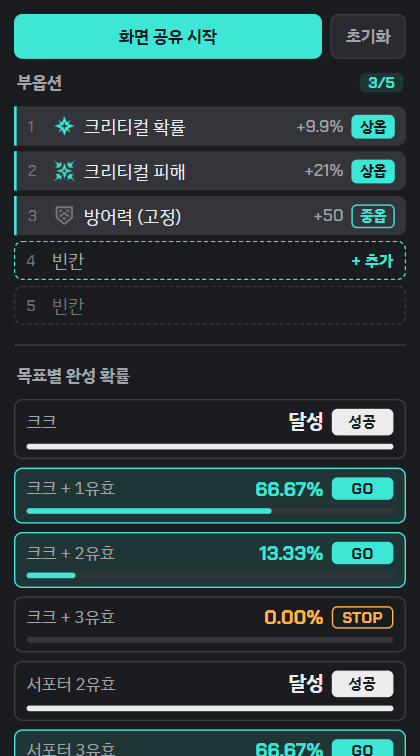
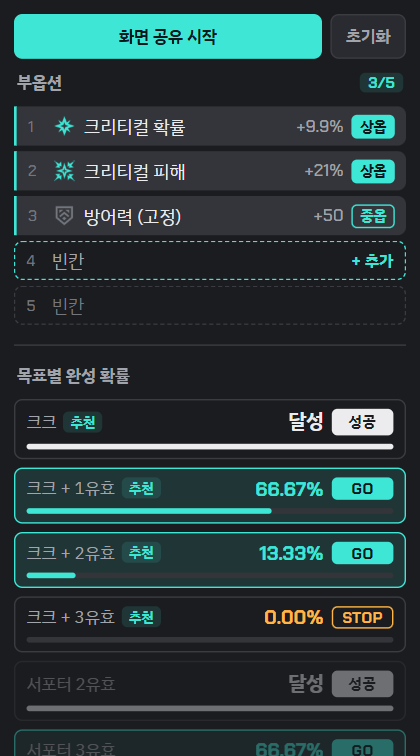
오버레이에도 공명자에 맞는 목표 강조
- 딜러는 크크 목표, 서포터는 서포터 목표에 "추천", 나머지는 흐리게 (본 화면과 같은 기준)
- 공명자 "선택 안 함"이나 새로고침 때도 오버레이가 바로 갱신되게
- README 오버레이 스크린샷 교체

diff --git a/overlay.js b/overlay.js
@@ -59,7 +59,8 @@ const $ = (id) => pipWin.document.getElementById(id);
  * @param model {
  *   sharing, openedCount,
  *   slots: [{ key, val, name, icon(상대 경로), valText, tierLabel, tierClass, valid } | null] (5칸, null = 빈칸),
- *   goals: [{ title, status, probText, prob }]
+ *   goals: [{ id, title, status, probText, prob }],
+ *   focus: 'crit'(딜러: 크크 목표 추천) | 'free'(서포터: 서포터 목표 추천) | null
  * }
  */
 export function updateOverlay(model) {
@@ -67,7 +68,7 @@ export function updateOverlay(model) {
   if (getOverlayWindow()) renderOverlay(model);
 }
 
-function renderOverlay({ sharing, slots, openedCount, goals }) {
+function renderOverlay({ sharing, slots, openedCount, goals, focus }) {
   if (!$('ov-slots')) return;
   $('ov-controls').innerHTML = `
     <button type="button" data-act="share" class="ov-btn ${sharing ? 'is-stop' : 'is-primary'}">${sharing ? '공유 중지' : '화면 공유 시작'}</button>
@@ -93,15 +94,20 @@ function renderOverlay({ sharing, slots, openedCount, goals }) {
     </div>`;
   }).join('');
 
-  $('ov-goals').innerHTML = '<div class="ov-head"><span>목표별 완성 확률</span></div>' + goals.map((g) => `
-    <div class="ov-goal is-${g.status.toLowerCase()}">
+  // 고른 공명자에 맞는 목표는 "추천", 나머지는 흐리게 (본 화면과 같은 기준)
+  const kindOf = (id) => (String(id).startsWith('crit') ? 'crit' : 'free');
+  $('ov-goals').innerHTML = '<div class="ov-head"><span>목표별 완성 확률</span></div>' + goals.map((g) => {
+    const rec = focus && kindOf(g.id) === focus;
+    return `
+    <div class="ov-goal is-${g.status.toLowerCase()}${focus && !rec ? ' is-dim' : ''}">
       <div class="ov-goal-top">
-        <span class="ov-goal-title">${esc(g.title)}</span>
+        <span class="ov-goal-title">${esc(g.title)}${rec ? '<span class="ov-rec">추천</span>' : ''}</span>
         <span class="ov-goal-prob">${esc(g.probText)}</span>
         <span class="decision-badge badge-${g.status.toLowerCase()}">${{ WAIT: '대기', DONE: '성공', GO: 'GO', STOP: 'STOP' }[g.status]}</span>
       </div>
       <div class="goal-bar"><span style="width:${(Math.min(1, Math.max(0, g.prob)) * 100).toFixed(1)}%"></span></div>
-    </div>`).join('');
+    </div>`;
+  }).join('');
 }
 
 // 편집 칸: 옵션 종류 / 수치 선택 + 적용·삭제·취소

diff --git a/roles.js b/roles.js
@@ -240,6 +240,15 @@ function closeModal() {
 
 // ───────── 선택 ─────────
 // 유효옵 체크박스를 캐릭터 프리셋대로 바꾸고, change 이벤트 한 번으로 app.js에 알린다
+// 유효옵은 그대로 두고 app.js에 다시 계산만 시킨다 (오버레이의 목표 강조도 같이 갱신된다)
+function notifyApp() {
+  const first = filterContainer.querySelector('input[type="checkbox"]');
+  if (!first) return;
+  applying = true;
+  first.dispatchEvent(new Event('change', { bubbles: true }));
+  applying = false;
+}
+
 function applyTargets(targets) {
   const inputs = [...filterContainer.querySelectorAll('input[type="checkbox"]')];
   if (!inputs.length) return;
@@ -262,6 +271,7 @@ function selectRole(id) {
     setNote(`${role.name} 추천 유효옵으로 바꿨어요. 아래에서 더 고칠 수 있어요.`);
   } else {
     setNote('캐릭터를 고르면 유효옵이 자동으로 맞춰져요.');
+    notifyApp();
   }
 }
 
@@ -273,6 +283,7 @@ function init() {
   currentId = saved ? saved.id : null;
   showShowcase(saved);
   setGoalFocus(saved);
+  if (saved) notifyApp();   // app.js는 roles.js보다 먼저 계산하므로, 강조 상태를 오버레이에도 알려준다
   renderStrip();
   setNote(saved ? `${saved.name} 선택 중` : '캐릭터를 고르면 유효옵이 자동으로 맞춰져요.');
 

diff --git a/app.js b/app.js
@@ -253,7 +253,8 @@ function syncOverlay({ openedCount, isValid }) {
       valText: `+${s.val}${s.isPercent ? '%' : ''}`,
       tierLabel: s.tier.label, tierClass: s.tier.class, valid: isValid(s),
     } : null)),
-    goals: GOAL_PRESETS.map((g) => ({ title: g.title, ...(goalResults[g.id] || { status: 'WAIT', prob: 0, probText: '—' }) })),
+    goals: GOAL_PRESETS.map((g) => ({ id: g.id, title: g.title, ...(goalResults[g.id] || { status: 'WAIT', prob: 0, probText: '—' }) })),
+    focus: dashboardList.dataset.focus || null,   // roles.js가 정한 강조: crit(딜러) / free(서포터)
   });
 }
 

diff --git a/style.css b/style.css
@@ -402,3 +402,7 @@ body.modal-lock { overflow: hidden; }
 .prob-be { color: var(--dim); }
 .cost-note { color: var(--dim); font-size: 12px; }
 .cost-note:empty { display: none; }
+
+/* 오버레이: 고른 공명자에 맞는 목표 강조 */
+.ov-goal.is-dim { opacity: 0.4; }
+.ov-rec { display: inline-block; margin-left: 5px; padding: 0 5px; border-radius: 4px; vertical-align: 1px; background: var(--cyan-soft); color: var(--cyan); font-size: 10px; font-weight: 700; }
